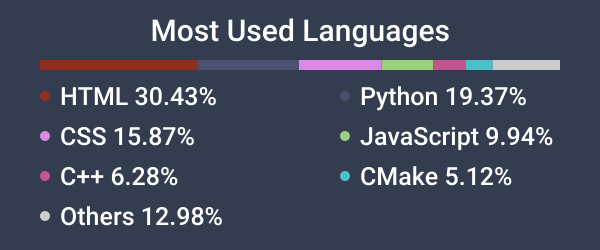
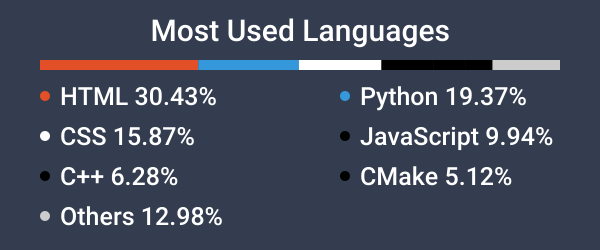
言語ごとの表す色を一意に定めるように変更

diff --git a/src/create_language_img.go b/src/create_language_img.go
@@ -1,15 +1,22 @@
-package main
-
+package language_img
 import (
 	"fmt"
 	"time"
     "github.com/patrickmn/go-cache"
 	"github.com/tomoish/readme/funcs"
-	"math/rand"
 )
 
 
-func main() {
+
+
+func CreateLanguageImg() {
+
+	colordict := map[string]string{
+		"HTML": "#E34F26",
+		"CSS": "#ffffff",
+		"Python": "#3498DB",
+		"others": "#000000",
+	}
 
 
 	// キャッシュのキーを設定
@@ -74,6 +81,7 @@ func main() {
 
 		allSize += float64(totalSize)
 	}
+	colorCode := ""
 
 	languages := []funcs.LanguageStat{}
 	// 各言語のファイルサイズをパーセンテージで計算
@@ -81,15 +89,15 @@ func main() {
 		percentage := float64(size) / allSize * 100.0
 		fmt.Printf("%s: %.2f%%\n", language, percentage)
 
-		// 乱数生成器の初期化
-		rand.Seed(time.Now().UnixNano())
 
-		// ランダムなRGB値を生成
-		red := rand.Intn(256)
-		green := rand.Intn(256)
-		blue := rand.Intn(256)
-		// RGB値をカラーコードの文字列に変換
-		colorCode := fmt.Sprintf("#%02X%02X%02X", red, green, blue)
+		if _, ok := colordict[language]; ok {
+			// language キーが colordict マップに存在する場合の処理
+			colorCode = colordict[language]
+		} else {
+			// language キーが colordict マップに存在しない場合の処理
+			colorCode = colordict["others"]
+		}
+		
 
 		languages = append(languages, funcs.LanguageStat{
 			Name:      language,
